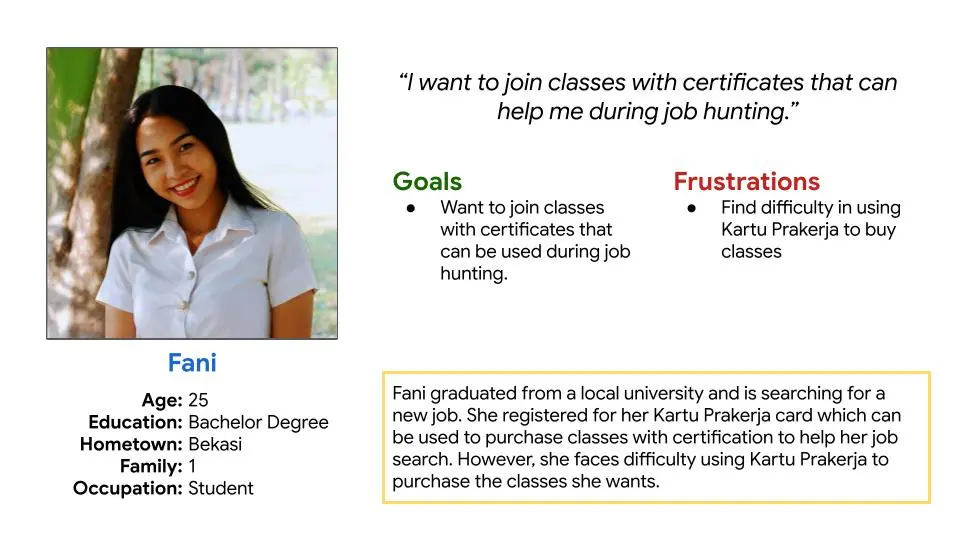
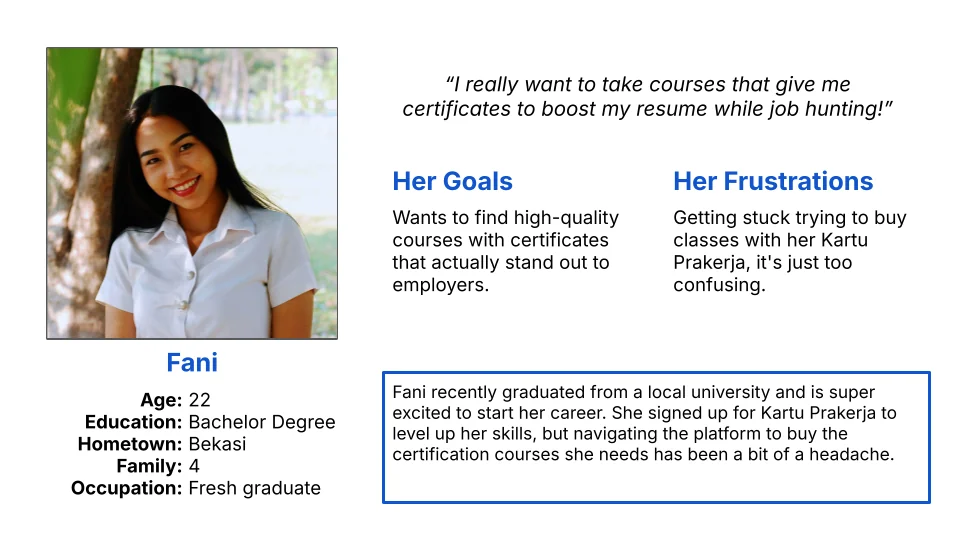
updates

diff --git a/rsk-case-study.html b/rsk-case-study.html
@@ -205,6 +205,15 @@
             </div>
           </div>
 
+          <h3 class="cs-h3">Building the persona</h3>
+          <p class="cs-p">
+            From these findings I created Fani, a 22-year-old fresh graduate
+            from Bekasi: eager to learn, not too comfortable with digital
+            products, and quick to give up when something feels unclear. She
+            became the filter for every design decision. If Fani would not get
+            it on her first try, it had to be simpler.
+          </p>
+
           <figure
             class="cs-figure"
             role="img"
@@ -216,15 +225,6 @@
               loading="lazy"
             />
           </figure>
-
-          <h3 class="cs-h3">Building the persona</h3>
-          <p class="cs-p">
-            From these findings I created Fani, a 25-year-old fresh graduate
-            from Bekasi: eager to learn, not too comfortable with digital
-            products, and quick to give up when something feels unclear. She
-            became the filter for every design decision. If Fani would not get
-            it on her first try, it had to be simpler.
-          </p>
         </div>
       </section>
 
@@ -270,20 +270,20 @@
           </figure>
 
           <p class="cs-p">
-            I also looked at Ruangguru (Indonesia's biggest edtech) and Udacity,
-            and two things jumped out that RSK was missing: screens focused on
-            one decision at a time, and progress indicators (bars, badges,
-            grades) that keep people coming back.
+            I also looked at Skill Academy by Ruangguru (Indonesia's biggest
+            edtech) and Udacity, and two things jumped out that RSK was missing:
+            screens focused on one decision at a time, and progress indicators
+            (bars, badges, grades) that keep people coming back.
           </p>
 
           <figure
             class="cs-figure"
             role="img"
-            aria-label="Competitive analysis : RSK vs Ruangguru vs Udacity"
+            aria-label="Competitive analysis : RSK vs Skill Academy vs Udacity"
           >
             <img
               src="assets/images/projects/rsk-competitive.webp"
-              alt="Competitive analysis : RSK vs Ruangguru vs Udacity"
+              alt="Competitive analysis : RSK vs Skill Academy vs Udacity"
               loading="lazy"
             />
           </figure>
